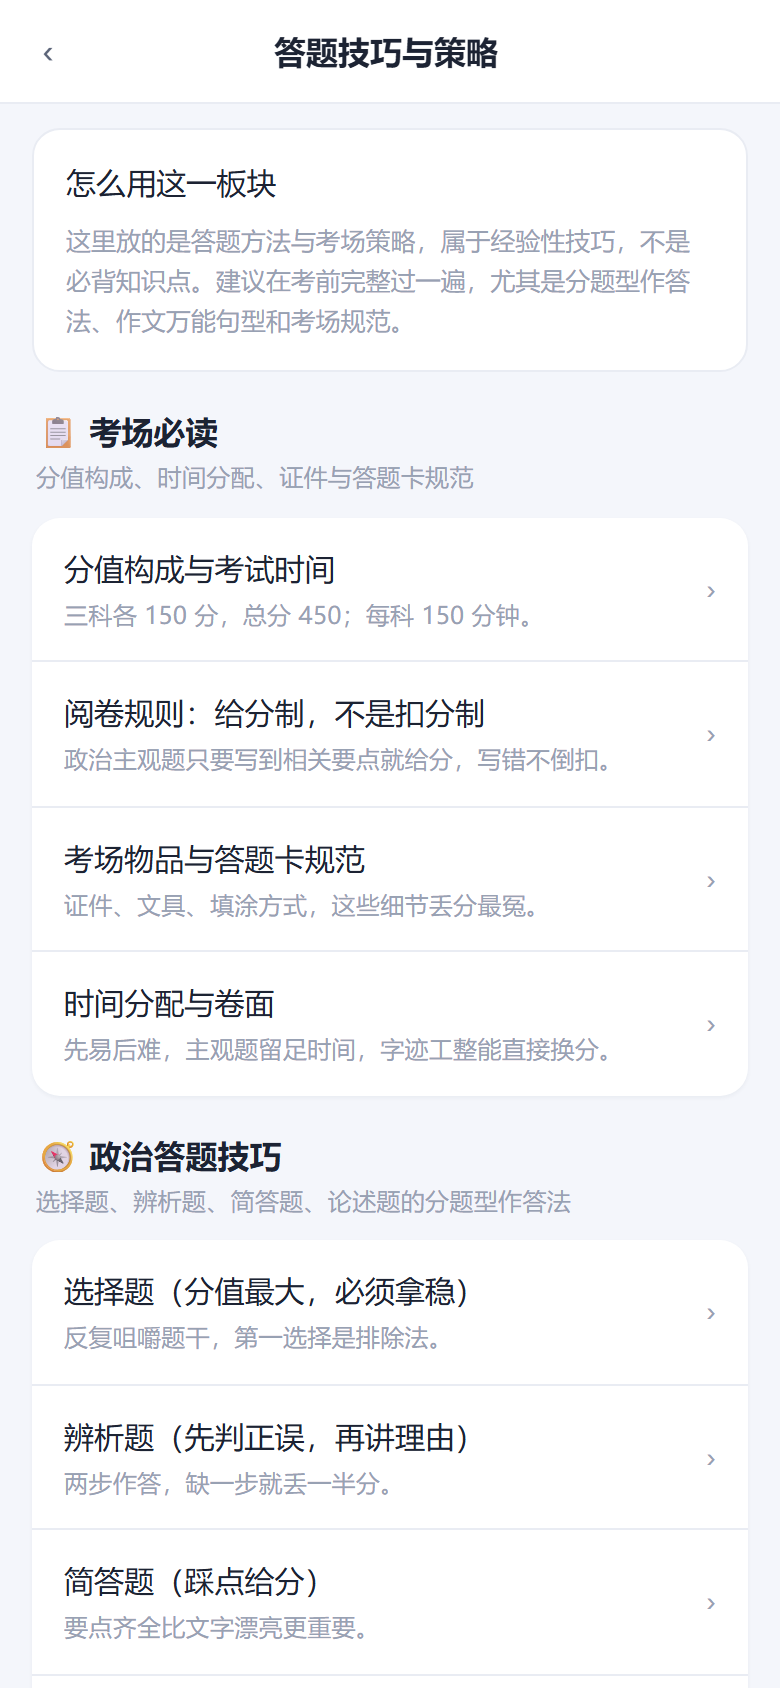
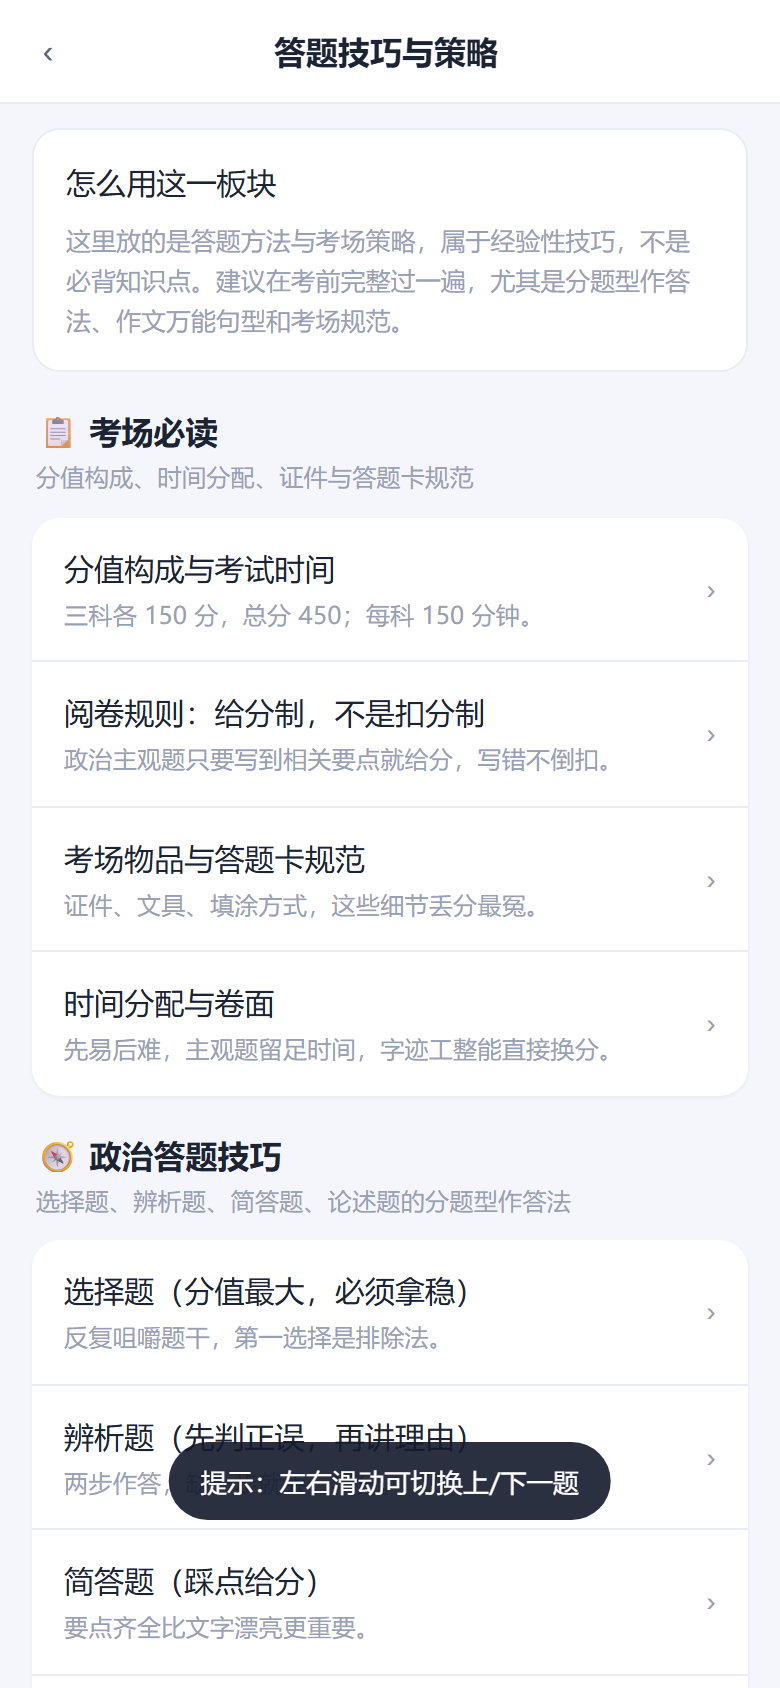
feat: 答题界面支持左右滑动切换上/下一题
在原有「上一题 / 下一题」按钮之外，新增触摸滑动手势。

实现

- src/core/utils.js 新增 bindSwipe(el, handlers, opts)：可复用的滑动手势绑定
  - 判定：水平位移 >= 50px，且水平位移 > 垂直位移 x 1.4（避免与上下滚动冲突）
  - 单次触摸只触发一次；多指触摸（缩放）不参与
  - 默认只绑触摸事件；opts.mouse = true 时才绑鼠标（桌面调试用），
    避免电脑上拖选文字误触发
  - 返回解绑函数
- src/views/quiz.js：答题区（.page__body）上绑定
  - 左滑 -> 下一题，右滑 -> 上一题（与按钮行为完全一致）
  - 新增 goToQuestion(session, index) 统一处理切题与越界提示
  - 越界时提示「已经是第一题 / 最后一题」，不改变当前题
  - 首次进入答题时提示一次「左右滑动可切换上/下一题」（存 quizapp.v1.ui，只提示一次）

验证

- 逻辑单测（Node 模拟 DOM 事件）：左滑/右滑触发、斜向滚动不触发、
  位移不足不触发、一次触摸只触发一次、解绑后监听器归零，全部符合预期
- 浏览器实测（合成 TouchEvent）：新增 5 项断言
  左滑进入下一题、右滑回到上一题、竖向/斜向滑动不切题、
  第一题继续右滑不越界、滑动后仍可正常点选选项
- scripts/e2e-analysis.mjs 增至 30 项断言，全部通过
- 全量回归：自测 65、通用 27、成考题库 22、板块导航 30、答题流程 28，全部通过

Changed region(s): [[0.2154, 0.8318, 0.8, 0.9242]]

diff --git a/src/core/utils.js b/src/core/utils.js
@@ -78,3 +78,110 @@ export function percent(part, total) {
 export function clone(value) {
   return JSON.parse(JSON.stringify(value));
 }
+
+/* ------------------------------------------------------------------ */
+/* 触摸手势                                                            */
+/* ------------------------------------------------------------------ */
+
+/**
+ * 给元素挂左右滑动切题手势（触摸 + 鼠标拖拽都支持，方便桌面调试）。
+ *
+ * 判定规则：
+ *   - 水平位移超过 threshold 像素
+ *   - 且水平位移明显大于垂直位移（避免与上下滚动打架）
+ *   - 单次触摸只触发一次
+ *
+ * @param {HTMLElement} el
+ * @param {object} handlers { onLeft, onRight, onStart, onEnd }
+ *   onLeft  —— 手指由右向左滑（看下一题）
+ *   onRight —— 手指由左向右滑（看上一题）
+ * @param {object} opts { threshold = 50, dominance = 1.4, mouse = false }
+ * @returns {Function} 解绑函数
+ */
+export function bindSwipe(el, handlers = {}, opts = {}) {
+  if (!el) return () => {};
+  const threshold = opts.threshold == null ? 50 : opts.threshold;
+  const dominance = opts.dominance == null ? 1.4 : opts.dominance;
+  // 默认只绑触摸：桌面浏览器上鼠标拖拽多为选中文字，容易误触发
+  const useMouse = opts.mouse === true;
+
+  let startX = 0;
+  let startY = 0;
+  let tracking = false;
+  let fired = false;
+
+  const begin = (x, y) => {
+    startX = x;
+    startY = y;
+    tracking = true;
+    fired = false;
+    if (handlers.onStart) handlers.onStart();
+  };
+
+  const finish = () => {
+    tracking = false;
+    if (handlers.onEnd) handlers.onEnd();
+  };
+
+  const move = (x, y, evt) => {
+    if (!tracking || fired) return;
+    const dx = x - startX;
+    const dy = y - startY;
+    if (Math.abs(dx) < threshold) return;
+    // 垂直位移过大说明用户是在上下滚动，放弃本次手势
+    if (Math.abs(dy) * dominance > Math.abs(dx)) return;
+
+    fired = true;
+    if (dx < 0) {
+      if (handlers.onLeft) handlers.onLeft();
+    } else if (handlers.onRight) {
+      handlers.onRight();
+    }
+    // 触发后允许浏览器继续处理该次触摸（不 preventDefault，保留下拉刷新等行为）
+    if (evt && evt.cancelable) { /* 有意不拦截 */ }
+  };
+
+  const onTouchStart = (e) => {
+    if (e.touches.length !== 1) return; // 多指（缩放）不参与
+    begin(e.touches[0].clientX, e.touches[0].clientY);
+  };
+  const onTouchMove = (e) => {
+    if (e.touches.length !== 1) return;
+    move(e.touches[0].clientX, e.touches[0].clientY, e);
+  };
+  const onTouchEnd = () => finish();
+
+  const onMouseDown = (e) => {
+    if (e.button !== 0) return;
+    begin(e.clientX, e.clientY);
+  };
+  const onMouseMove = (e) => {
+    if (!tracking) return;
+    move(e.clientX, e.clientY, e);
+  };
+  const onMouseUp = () => { if (tracking) finish(); };
+
+  el.addEventListener('touchstart', onTouchStart, { passive: true });
+  el.addEventListener('touchmove', onTouchMove, { passive: true });
+  el.addEventListener('touchend', onTouchEnd, { passive: true });
+  el.addEventListener('touchcancel', onTouchEnd, { passive: true });
+  if (useMouse) {
+    el.addEventListener('mousedown', onMouseDown);
+    el.addEventListener('mousemove', onMouseMove);
+    el.addEventListener('mouseup', onMouseUp);
+    el.addEventListener('mouseleave', onMouseUp);
+  }
+
+  return () => {
+    el.removeEventListener('touchstart', onTouchStart);
+    el.removeEventListener('touchmove', onTouchMove);
+    el.removeEventListener('touchend', onTouchEnd);
+    el.removeEventListener('touchcancel', onTouchEnd);
+    if (useMouse) {
+      el.removeEventListener('mousedown', onMouseDown);
+      el.removeEventListener('mousemove', onMouseMove);
+      el.removeEventListener('mouseup', onMouseUp);
+      el.removeEventListener('mouseleave', onMouseUp);
+    }
+  };
+}

diff --git a/src/views/quiz.js b/src/views/quiz.js
@@ -15,7 +15,7 @@ import * as state from '../core/state.js';
 import * as engine from '../core/engine.js';
 import { QUESTIONS, getQuestion, getChapter } from '../data/questions.js';
 import { SUBJECTS, getSubject, subjectOfChapter, chapterIdsOfSubject } from '../data/subjects.js';
-import { fmtClock, fmtDuration, fmtTime, percent, shuffle } from '../core/utils.js';
+import { fmtClock, fmtDuration, fmtTime, percent, shuffle, bindSwipe } from '../core/utils.js';
 import { go, back } from '../app.js';
 
 /* ------------------------------------------------------------------ */
@@ -675,7 +675,47 @@ function renderQuiz() {
     ])
   );
 
-  return h('div.page', null, [headerEl, meta, h('div.page__body', null, [stemCard, feedbackNode]), footer]);
+  const body = h('div.page__body', null, [stemCard, feedbackNode]);
+
+  /**
+   * 左右滑动切上/下一题（与「上一题 / 下一题」按钮等价）。
+   * 挂载在答题区上；每次 rerender 重建 DOM，旧监听随旧节点一起丢弃。
+   */
+  bindSwipe(body, {
+    onLeft: () => goToQuestion(session, session.currentIndex + 1),
+    onRight: () => goToQuestion(session, session.currentIndex - 1),
+  });
+
+  // 首次进入答题时提示一次手势（每个浏览器只提示一次）
+  if (session.currentIndex === 0 && store.getSetting('ui.swipeHintShown', false) !== true) {
+    store.setSetting('ui.swipeHintShown', true);
+    setTimeout(() => toast('提示：左右滑动可切换上/下一题', 2200), 600);
+  }
+
+  return h('div.page', null, [headerEl, meta, body, footer]);
+}
+
+/**
+ * 切换到指定题号（滑动与按钮共用）。
+ * 越界时给出轻提示，不改变当前题。
+ */
+function goToQuestion(session, index) {
+  const total = session.questions.length;
+  if (index < 0) {
+    toast('已经是第一题');
+    return;
+  }
+  if (index > total - 1) {
+    toast('已经是最后一题');
+    return;
+  }
+  if (index === session.currentIndex) return;
+  const wasLast = session.currentIndex >= total - 1;
+  session.currentIndex = index;
+  const isLast = index >= total - 1;
+  // 边界切换时清掉上一题留下的 toast，避免叠加
+  if (wasLast !== isLast) document.querySelectorAll('.toast').forEach((n) => n.remove());
+  rerender();
 }
 
 /* ------------------------------------------------------------------ */
